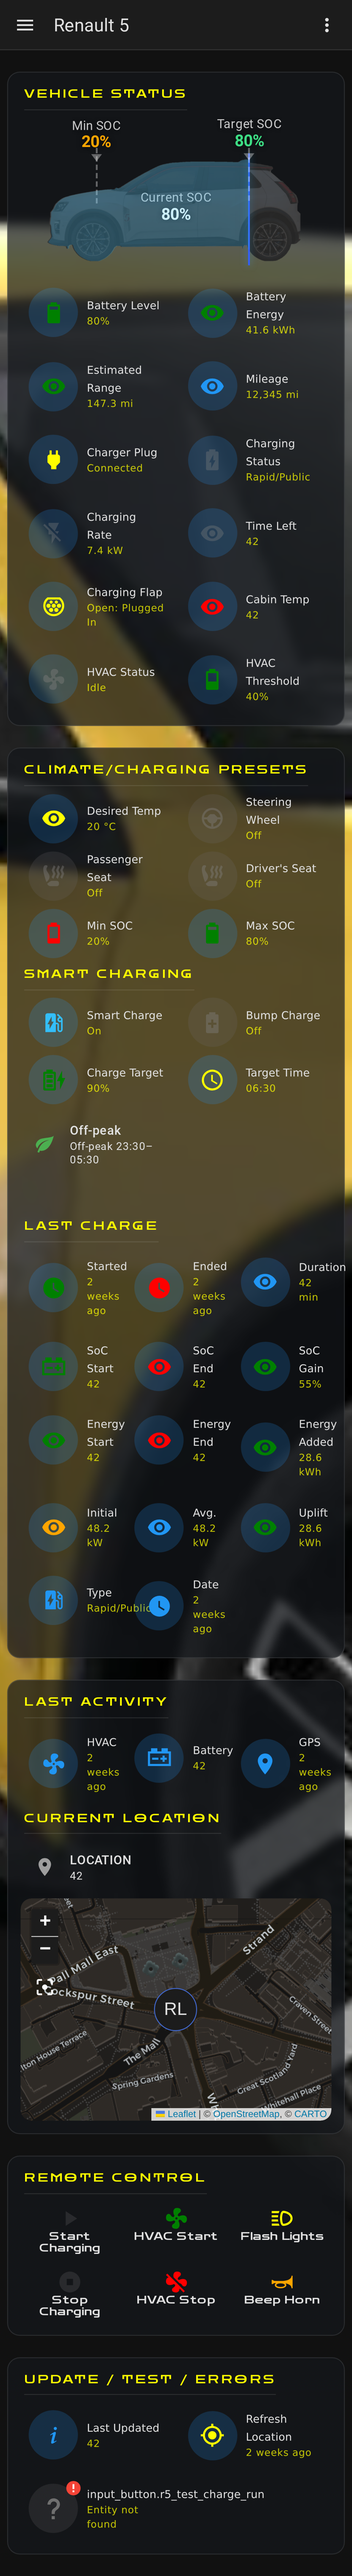
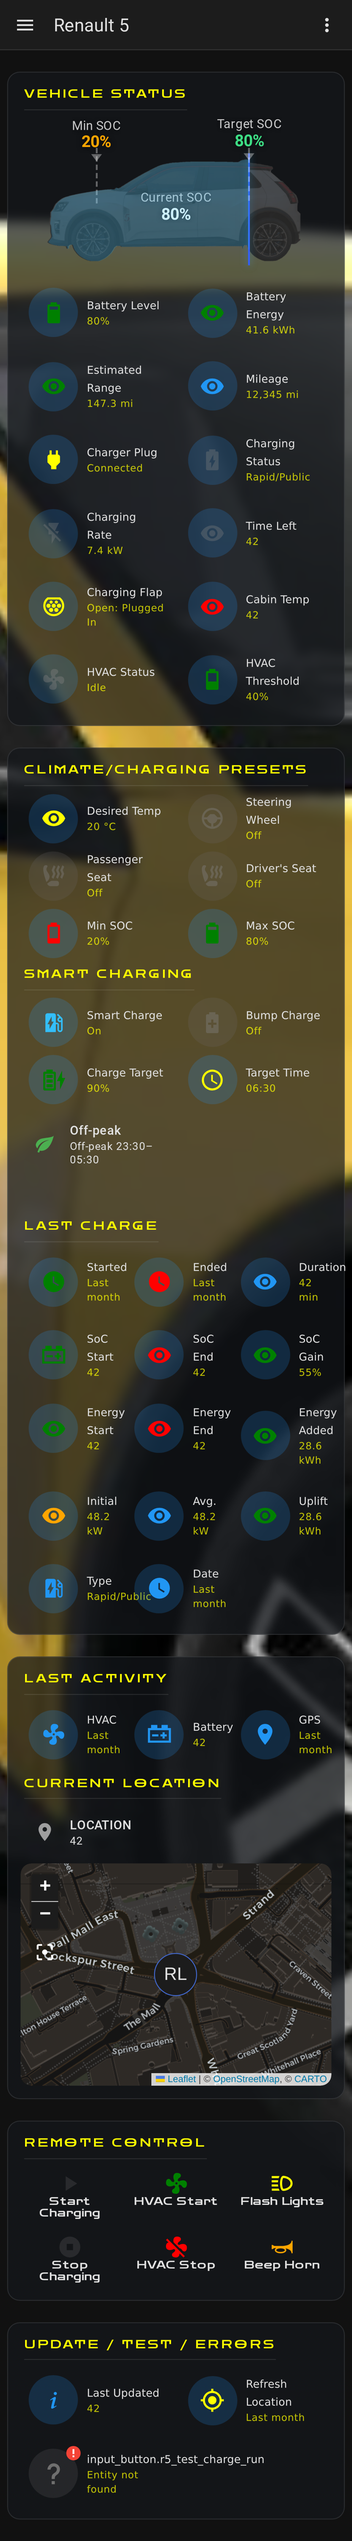
ci(refresh-screenshots): mint a GitHub App token instead of the expiring PAT (#51)
* ci(refresh-screenshots): mint a GitHub App token instead of the expiring PAT

Mirror of a290-ha-addon #81/#82. The screenshot auto-refresh job authored its
signed commit with SCREENSHOT_PAT, a manually-expiring personal access token.
Swap it for a short-lived GitHub App installation token minted per-run from
APP_ID / APP_PRIVATE_KEY (App a290-r5-screenshot-committer, installed on both
add-on repos, Contents:write only), so there is no token to renew.

Invariants preserved: createCommitOnBranch still web-flow-signs the bot commit
(satisfies "require signed commits"), and because the App is a separate identity
— not the repo's GITHUB_TOKEN — its push still re-triggers the PR's required
checks. Proven live on a290 before this mirror.

Hardening (matches a290): mint the token only AFTER the untrusted PR-rendered
PNGs are decoded/resized; scope it to Contents only; disable gracefully only
when the full credential pair is present. commit_screenshots.py reads
COMMIT_TOKEN (was SCREENSHOT_PAT) and is now byte-identical to a290's.

* chore: refresh dashboard screenshots [refresh-shots]

diff --git a/ui-tests/commit_screenshots.py b/ui-tests/commit_screenshots.py
@@ -2,19 +2,20 @@
 """Commit refreshed dashboard screenshots to a PR branch via the GitHub GraphQL API.
 
 Runs from the **trusted** `refresh-screenshots.yaml` (a `workflow_run` job checked out from the
-default branch), so the SCREENSHOT_PAT never executes a PR's version of any script. The newly
-rendered images (downloaded as an artifact, then resized into `docs/screenshots/`) are compared
-against the PR branch's current versions over the REST API — no local `git`, no PR checkout — and
-only the differing files are committed.
+default branch), so the token never executes a PR's version of any script. The newly rendered
+images (downloaded as an artifact, then resized into `docs/screenshots/`) are compared against
+the PR branch's current versions over the REST API — no local `git`, no PR checkout — and only
+the differing files are committed.
 
 `createCommitOnBranch` produces a web-flow-signed ("Verified") commit, so the refresh satisfies
-the repo's "require signed commits" rule without a signing key in CI; authoring it with a
-fine-grained PAT (not GITHUB_TOKEN) makes the commit trigger the required checks so the PR stays
-mergeable. A no-op when nothing changed.
+the repo's "require signed commits" rule without a signing key in CI; authoring it with a GitHub
+App installation token (not GITHUB_TOKEN) makes the commit trigger the required checks so the PR
+stays mergeable. A no-op when nothing changed.
 
 Env: GITHUB_REPOSITORY (owner/name), BRANCH (PR head ref), HEAD_SHA (PR head commit — used as
-the `expectedHeadOid`, so the mutation fails closed if the branch advanced), SCREENSHOT_PAT
-(contents:write PAT). Only the listed files are considered; their on-disk content is committed.
+the `expectedHeadOid`, so the mutation fails closed if the branch advanced), COMMIT_TOKEN (a
+contents:write GitHub App installation token). Only the listed files are considered; their
+on-disk content is committed.
 """
 import base64
 import json
@@ -55,7 +56,7 @@ def main():
     repo = os.environ["GITHUB_REPOSITORY"]
     branch = os.environ["BRANCH"]
     head = os.environ["HEAD_SHA"]
-    token = os.environ["SCREENSHOT_PAT"]
+    token = os.environ["COMMIT_TOKEN"]
 
     additions = []
     for f in FILES:

diff --git a/ui-tests/README.md b/ui-tests/README.md
@@ -38,3 +38,15 @@ PYTHON=/path/to/venv/bin/python bash ui-tests/run.sh
 
 Screenshots land in `ui-tests/screenshots/` (git-ignored; uploaded as a CI artifact). In CI
 this is the **UI Tests** workflow, which runs whenever the dashboards or this harness change.
+
+## Docs-screenshot auto-refresh
+
+On a PR, a trusted `workflow_run` companion (`.github/workflows/refresh-screenshots.yaml`)
+downloads the rendered artifact and, if it differs from the committed docs shots, commits the
+refreshed PNGs back to the PR branch via the GraphQL `createCommitOnBranch` mutation (see
+`commit_screenshots.py`). That mutation web-flow-signs the commit (**Verified**), so it satisfies
+the branch's "require signed commits" rule with no signing key in CI. The write credential is a
+short-lived **GitHub App installation token** minted per-run (App `a290-r5-screenshot-committer`,
+`Contents: write` only) — no long-lived PAT to renew. Because the App is a separate identity, its
+push still re-triggers the PR's required checks; a `[refresh-shots]` message guard stops the
+re-triggered run from committing again.
